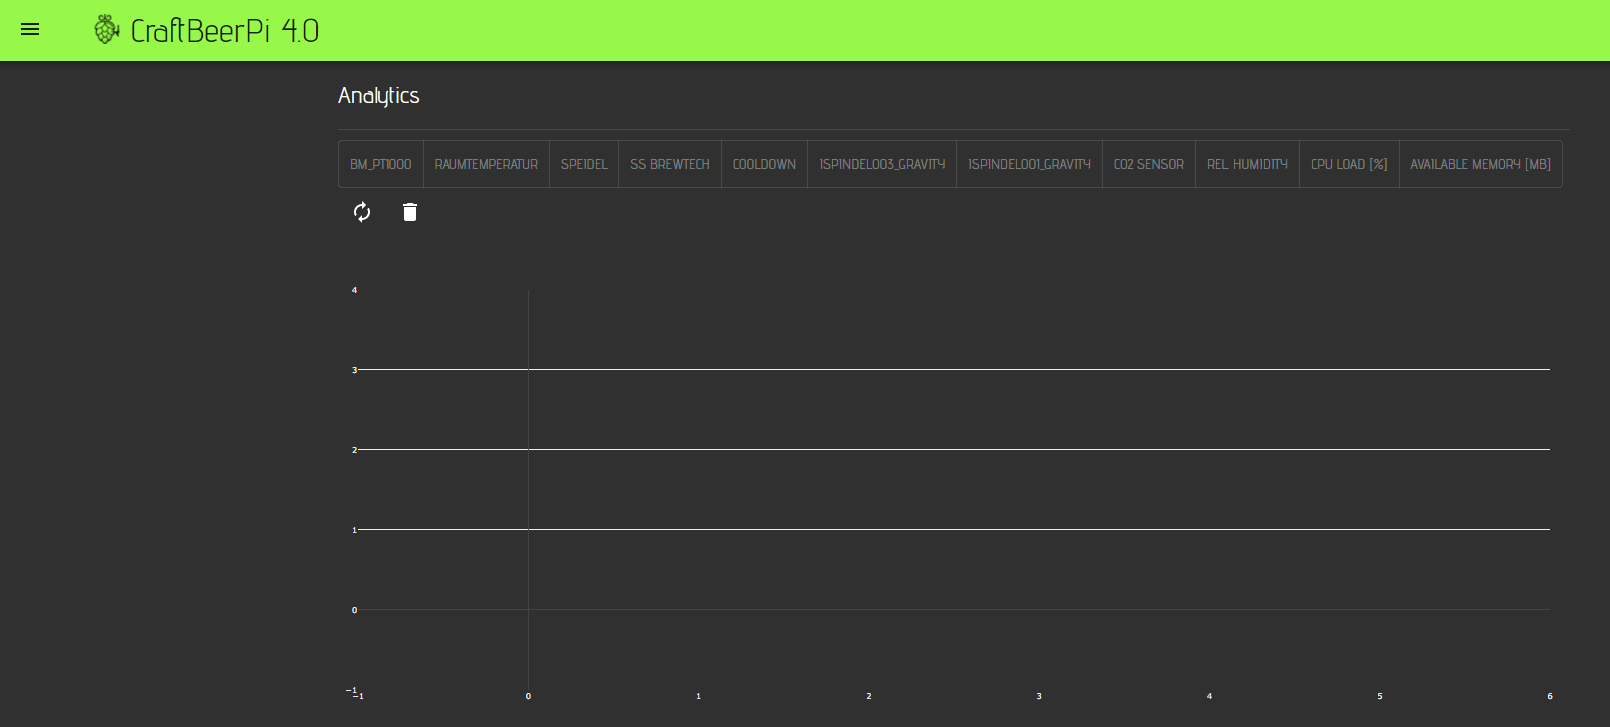
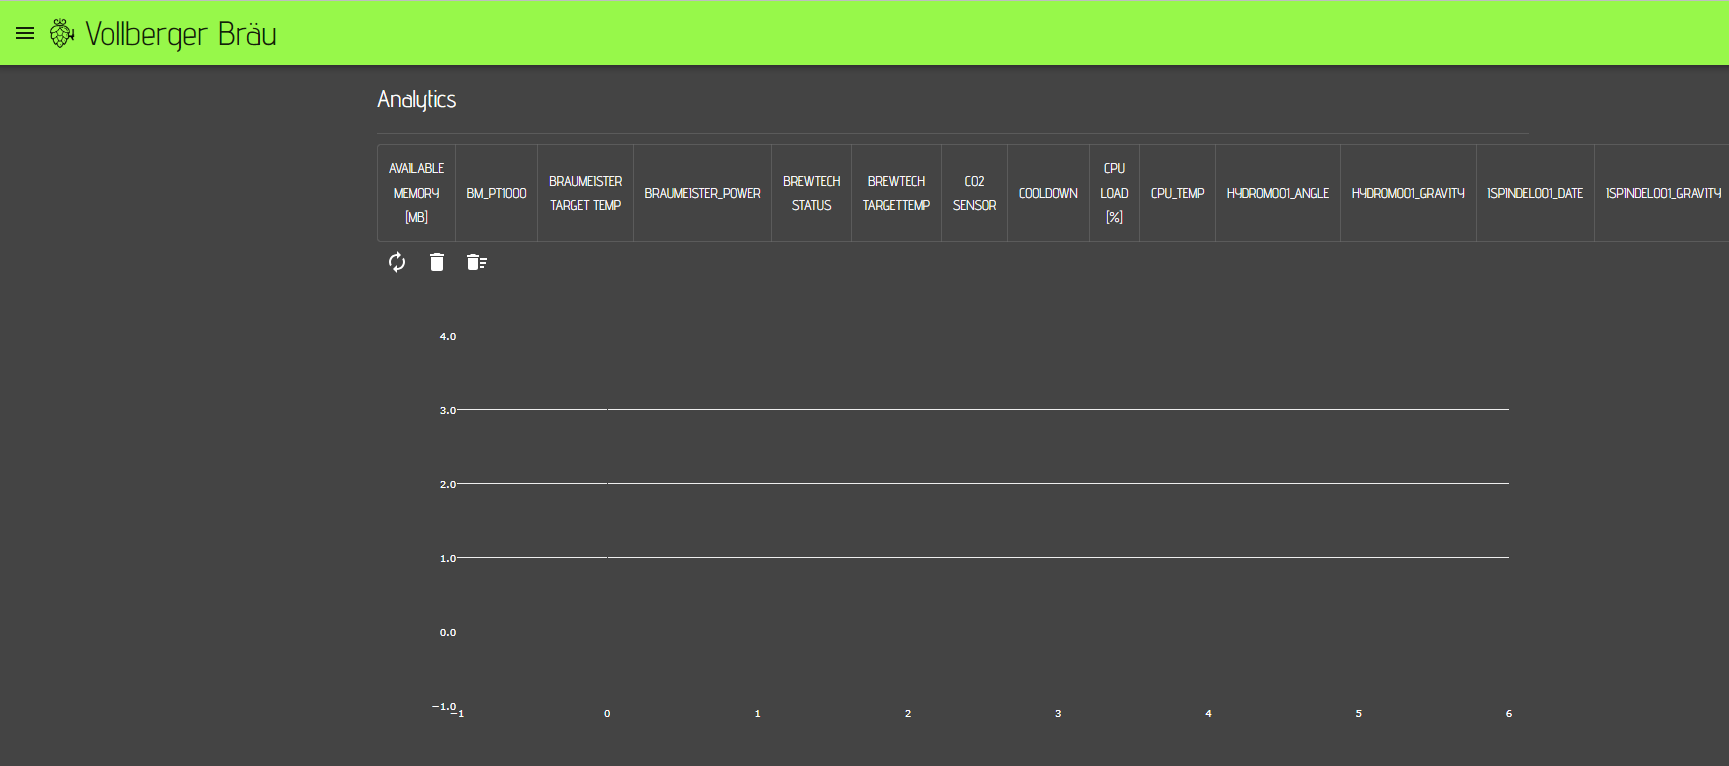
delete logs updated

diff --git a/master/craftbeerpi-4-server/analytics.md b/master/craftbeerpi-4-server/analytics.md
@@ -20,6 +20,8 @@ Please note: You can only see data in the charts, when the sensor is writing dat
 
 If you want to delete one or multiple charts / log files, you need to select the corresponding sensors and click on the delete button on this page. A delete dialog will open where you need to confirm that you want to delete the data.
 
+If you want to delete all logs, just click the delete all button right of the delete button. No sensors need to be selected for this function.
+
 ![Delete Dialog to delete sensor log files](../../.gitbook/assets/cbpi4-analytics-delete-logs.png)
 
 If you confirm to delete the data. the files will be deleted and can't be restored.&#x20;
